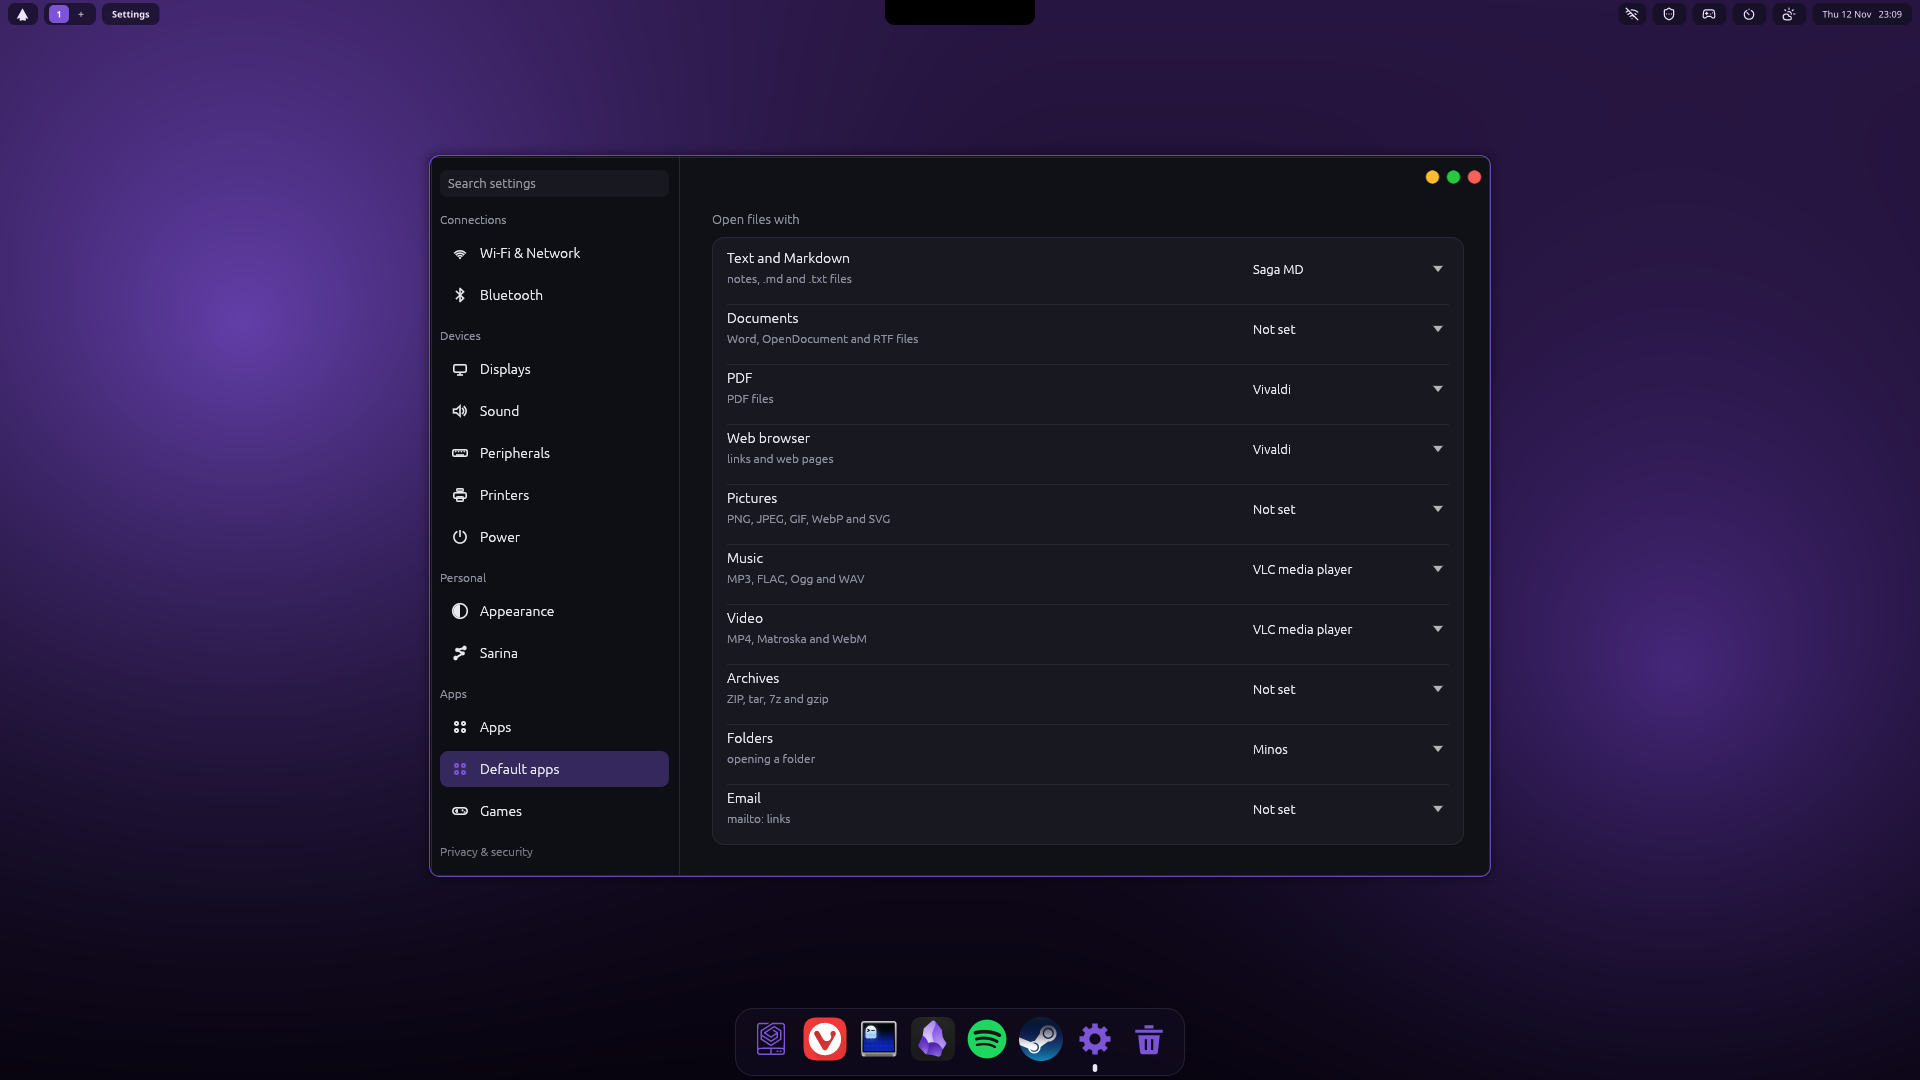
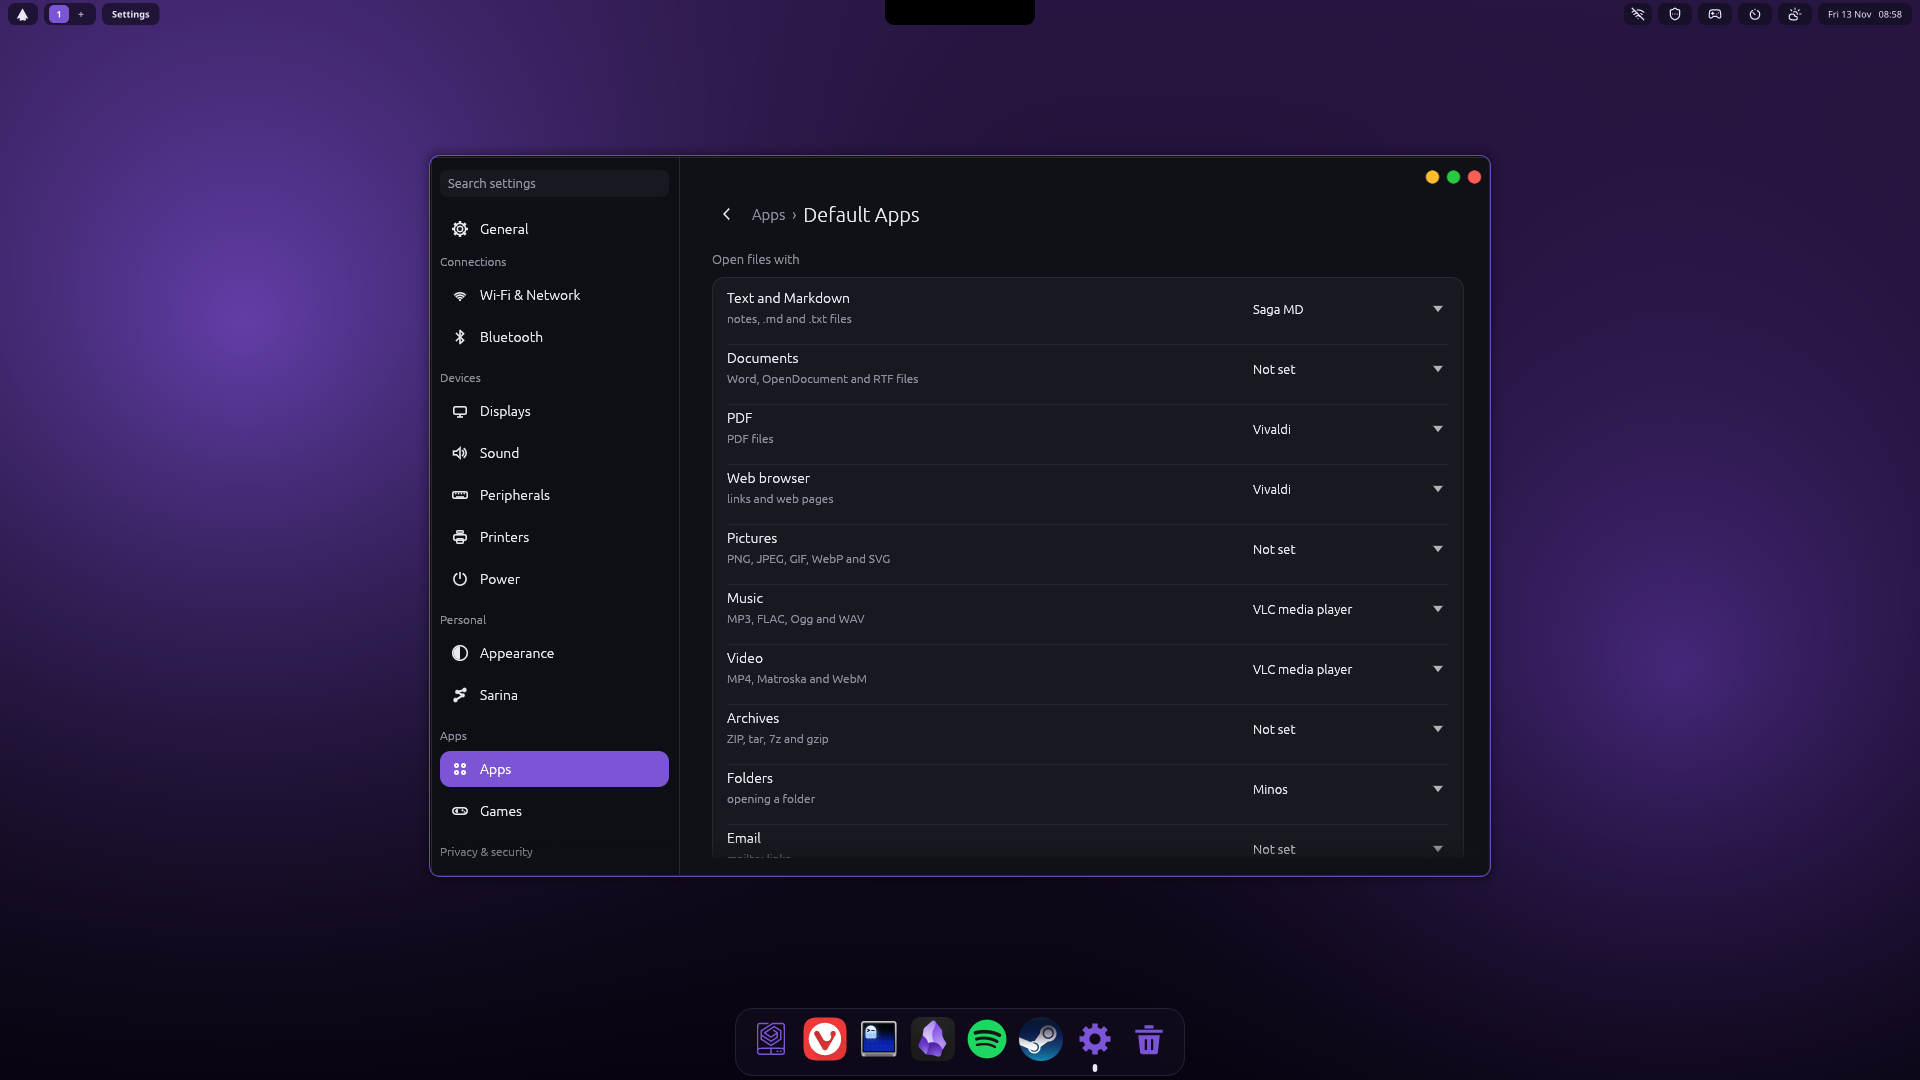
Settings > Apps as on a tablet: Default Apps on top, then every app A to Z with a search
- A card at the top: Default Apps ("Manage default apps"), Optional software and Minos. Default Apps
  left the sidebar and is a page inside Apps (`yggdrasil-settings default` still opens it, as
  Apps › Default Apps, Back returns to Apps); Optional software and Minos were tabs and are now
  sub-pages in the header's path.
- Below it a full-width search field and the installed apps (the same data as before), A to Z by
  default with a card per letter under its letter ("#" for digits and the like). Usage and Size still
  sort it, as one card. Each row keeps its restart, close and remove buttons and opens the app's page.

Test: the letter sections (order, digits, the search narrowing first).

diff --git a/packages/settings/src/apps_ui.rs b/packages/settings/src/apps_ui.rs
@@ -19,7 +19,7 @@ pub enum Confirm {
     ClearData(String),
 }
 
-pub const SORTS: [&str; 3] = ["Usage", "Size", "A to Z"];
+pub const SORTS: [&str; 3] = ["A to Z", "Usage", "Size"];
 
 fn human(bytes: u64) -> String {
     let b = bytes as f64;
@@ -81,14 +81,14 @@ fn sorted<'a>(apps: &'a [AppInfo], sort: usize, sizes: &HashMap<String, u64>, fi
         })
         .collect();
     match sort {
-        0 => v.sort_by(|a, b| {
+        1 => v.sort_by(|a, b| {
             b.seconds
                 .cmp(&a.seconds)
                 .then(b.launches.cmp(&a.launches))
                 .then(b.last_used.cmp(&a.last_used))
                 .then(a.name.to_lowercase().cmp(&b.name.to_lowercase()))
         }),
-        1 => v.sort_by(|a, b| {
+        2 => v.sort_by(|a, b| {
             sizes.get(&b.id).unwrap_or(&0).cmp(sizes.get(&a.id).unwrap_or(&0)).then(a.name.to_lowercase().cmp(&b.name.to_lowercase()))
         }),
         _ => v.sort_by_key(|a| a.name.to_lowercase()),
@@ -96,11 +96,45 @@ fn sorted<'a>(apps: &'a [AppInfo], sort: usize, sizes: &HashMap<String, u64>, fi
     v
 }
 
+/// The letter an app is listed under in A to Z: its first letter, "#" for a digit or anything else.
+pub fn letter(name: &str) -> String {
+    match name.chars().next() {
+        Some(c) if c.is_alphabetic() => c.to_uppercase().collect(),
+        _ => "#".into(),
+    }
+}
+
+/// The list cut into its letters' sections, in order (A to Z only).
+pub fn by_letter<'a>(list: &[&'a AppInfo]) -> Vec<(String, Vec<&'a AppInfo>)> {
+    let mut out: Vec<(String, Vec<&AppInfo>)> = Vec::new();
+    for a in list {
+        let l = letter(&a.name);
+        match out.last_mut() {
+            Some((k, v)) if *k == l => v.push(a),
+            _ => out.push((l, vec![a])),
+        }
+    }
+    out
+}
+
 impl App {
+    /// Apps, as on a tablet: Default Apps (and the system's optional software and Minos) on a card at the top, then every
+    /// installed app, A to Z under its letter, with a search.
     pub(crate) fn page_apps(&mut self, ui: &mut egui::Ui, pal: &Palette, ctx: &egui::Context) {
-        if self.app_sel.is_none() {
-            if let Some(i) = ui::segmented(ui, pal, &["Installed", "Optional software", "Minos"], self.app_tab) {
-                self.app_tab = i;
+        if self.app_sel.is_none() && self.app_tab == 0 {
+            let mut open_defaults = false;
+            ui::group(ui, pal, None, |ui| {
+                open_defaults = ui::nav_row(ui, pal, true, "Default Apps", Some("Manage default apps"), |_| {});
+                if ui::nav_row(ui, pal, false, "Optional software", Some("Parts of the system you can add or take away"), |_| {}) {
+                    self.app_tab = 1;
+                }
+                if ui::nav_row(ui, pal, false, "Minos", Some("The file manager's windows and tabs"), |_| {}) {
+                    self.app_tab = 2;
+                }
+            });
+            if open_defaults {
+                self.open_page(crate::Page::DefaultApps, ctx);
+                return;
             }
         }
         match (self.app_tab, self.app_sel.clone()) {
@@ -114,25 +148,37 @@ impl App {
 
     fn app_list(&mut self, ui: &mut egui::Ui, pal: &Palette, ctx: &egui::Context) {
         let Some(apps) = self.data.installed.clone() else { return crate::loading(ui) };
-        ui.add_space(8.0);
+        ui.add_space(14.0);
+        ui::field(ui, pal, &mut self.app_filter, "Search apps", ui.available_width() - 22.0, false);
+        ui.add_space(6.0);
         ui.horizontal(|ui| {
             ui.label(RichText::new("Sort by").color(pal.dim));
             if let Some(i) = ui::segmented(ui, pal, &SORTS, self.app_sort) {
                 self.app_sort = i;
             }
             ui.add_space(8.0);
-            ui.add(egui::TextEdit::singleline(&mut self.app_filter).hint_text("Find an app").desired_width(180.0));
-            ui.add_space(8.0);
             ui.checkbox(&mut self.app_system, "Show system tools");
         });
         let list = sorted(&apps, self.app_sort, &self.app_sizes, &self.app_filter, self.app_system);
+        // A to Z: a card per letter, the letter over it; by usage or size one card
+        let sections = if self.app_sort == 0 { by_letter(&list) } else { vec![(String::new(), list)] };
         let mut action: Option<(String, &'static str)> = None;
-        ui::group(ui, pal, None, |ui| {
-            if list.is_empty() {
+        if sections.iter().all(|(_, v)| v.is_empty()) {
+            ui::group(ui, pal, None, |ui| {
                 ui.add_space(12.0);
                 ui.label(RichText::new("No apps match.").color(pal.dim));
                 ui.add_space(12.0);
-            }
+            });
+        }
+        for (head, list) in sections.iter().filter(|(_, v)| !v.is_empty()) {
+            ui::group(ui, pal, (!head.is_empty()).then_some(head.as_str()), |ui| self.app_rows(ui, pal, list, &mut action));
+        }
+        self.app_list_action(ctx, &apps, action);
+    }
+
+    /// The rows of one card of the list: icon, name and what is known, and restart, close and remove on the right.
+    fn app_rows(&self, ui: &mut egui::Ui, pal: &Palette, list: &[&AppInfo], action: &mut Option<(String, &'static str)>) {
+        {
             for (i, a) in list.iter().enumerate() {
                 if i > 0 {
                     let r = ui.available_rect_before_wrap();
@@ -184,19 +230,22 @@ impl App {
                         .layout(egui::Layout::right_to_left(egui::Align::Center)),
                 );
                 if icon_button(&mut buttons, pal, Icon::Trash, "Remove", true, true).clicked() {
-                    action = Some((a.id.clone(), "remove"));
+                    *action = Some((a.id.clone(), "remove"));
                 }
                 if icon_button(&mut buttons, pal, Icon::Close, "Close", !a.running.is_empty(), false).clicked() {
-                    action = Some((a.id.clone(), "close"));
+                    *action = Some((a.id.clone(), "close"));
                 }
                 if icon_button(&mut buttons, pal, Icon::Restart, "Restart", !a.running.is_empty(), false).clicked() {
-                    action = Some((a.id.clone(), "restart"));
+                    *action = Some((a.id.clone(), "restart"));
                 }
                 if resp.clicked() && action.is_none() {
-                    action = Some((a.id.clone(), "open"));
+                    *action = Some((a.id.clone(), "open"));
                 }
             }
-        });
+        }
+    }
+
+    fn app_list_action(&mut self, ctx: &egui::Context, apps: &[AppInfo], action: Option<(String, &'static str)>) {
         if let Some((id, what)) = action {
             let app = apps.iter().find(|a| a.id == id).cloned();
             match (what, app) {
@@ -648,4 +697,26 @@ fn stop_app(a: &AppInfo) -> Result<(), String> {
     args.extend(a.running.iter().cloned());
     let refs: Vec<&str> = args.iter().map(String::as_str).collect();
     crate::sys::act("systemctl", &refs)
+}
+
+#[cfg(test)]
+mod tests {
+    use super::*;
+
+    fn app(name: &str) -> AppInfo {
+        AppInfo { id: name.to_lowercase(), name: name.into(), ..Default::default() }
+    }
+
+    #[test]
+    fn a_to_z_has_a_section_per_letter() {
+        let apps = [app("calculator"), app("Agora"), app("7-Zip"), app("Ägypten"), app("Browser"), app("Builder")];
+        let list = sorted(&apps, 0, &HashMap::new(), "", true);
+        let s = by_letter(&list);
+        let heads: Vec<&str> = s.iter().map(|(h, _)| h.as_str()).collect();
+        assert_eq!(heads, ["#", "A", "B", "C", "Ä"]);
+        assert_eq!(s[2].1.iter().map(|a| a.name.as_str()).collect::<Vec<_>>(), ["Browser", "Builder"]);
+        // the search narrows the list first
+        let list = sorted(&apps, 0, &HashMap::new(), "bu", true);
+        assert_eq!(by_letter(&list).len(), 1);
+    }
 }

diff --git a/packages/settings/src/nav.rs b/packages/settings/src/nav.rs
@@ -96,6 +96,11 @@ impl App {
                 l.extend(t);
             }
             Page::Apps => {
+                match self.app_tab {
+                    1 => l.push("Optional software".into()),
+                    2 => l.push("Minos".into()),
+                    _ => {}
+                }
                 if let Some(id) = &self.app_sel {
                     let name = self.data.installed.as_ref().and_then(|a| a.iter().find(|a| &a.id == id)).map(|a| a.name.clone());
                     l.push(name.unwrap_or_else(|| id.clone()));
@@ -164,8 +169,12 @@ impl App {
                 self.distress.close();
             }
             Page::Apps => {
-                self.app_sel = None;
-                self.app_confirm = None;
+                if self.app_sel.is_some() {
+                    self.app_sel = None;
+                    self.app_confirm = None;
+                } else {
+                    self.app_tab = 0;
+                }
             }
             Page::Peripherals => match (self.peri.sub, self.key_sub) {
                 (peripherals::Sub::Keyboard, KeySub::SpellDownload) => self.key_sub = KeySub::Spelling,
@@ -207,6 +216,7 @@ impl App {
             Page::Apps => {
                 self.app_sel = None;
                 self.app_confirm = None;
+                self.app_tab = 0;
             }
             Page::Peripherals => {
                 self.peri.sub = peripherals::Sub::Main;

diff --git a/packages/settings/src/main.rs b/packages/settings/src/main.rs
@@ -153,7 +153,6 @@ const PAGES: [(Page, &str, Icon, &str, &str); 22] = [
     ),
     (Page::Assistant, "Assistant", Icon::Sound, "Personal", "voice"),
     (Page::Apps, "Apps", Icon::Apps, "Apps", "installed optional software uninstall minos"),
-    (Page::DefaultApps, "Default apps", Icon::Apps, "Apps", "browser mail music video open with"),
     (
         Page::Games,
         "Games",
@@ -172,6 +171,7 @@ const PAGES: [(Page, &str, Icon, &str, &str); 22] = [
     (Page::Restore, "Restore points", Icon::Restart, "Privacy & security", "snapshot backup rollback undo"),
     (Page::Users, "Users", Icon::User, "System", "account people"),
     (Page::Developer, "Developer Mode", Icon::Keyboard, "System", "developer options"),
+    (Page::DefaultApps, "Default Apps", Icon::Apps, "Apps", "browser mail music video open with"),
     (Page::About, "About", Icon::Info, "General", "version system information hardware"),
     (Page::DateTime, "Date & Time", Icon::Clock, "General", "clock timezone"),
     (Page::Storage, "Storage", Icon::Gear, "General", "disk space free used"),
@@ -182,6 +182,7 @@ const PAGES: [(Page, &str, Icon, &str, &str); 22] = [
 fn parent(page: Page) -> Option<Page> {
     match page {
         Page::About | Page::DateTime | Page::Storage | Page::Language => Some(Page::General),
+        Page::DefaultApps => Some(Page::Apps),
         _ => None,
     }
 }

diff --git a/docs/APPS_SETTINGS.md b/docs/APPS_SETTINGS.md
@@ -25,14 +25,16 @@ rows, a row that opens a page ending in ›, and a small grey note under a card 
 
 ## The pages
 
-- **Installed** (tab): every visible desktop entry, sortable by Usage (how often it was opened from here), Size (its folders
-  under ~/.config, ~/.cache, ~/.local/share, ~/.var/app) or A to Z. System tools (settings panels, Avahi, ...) are hidden
+- **The list** (2026-11-13, as on a tablet): a card at the top with Default Apps ("Manage default apps", no longer in the
+  sidebar; `yggdrasil-settings default` still opens it, inside Apps), Optional software and Minos (they were tabs), then a
+  search field and every visible desktop entry A to Z, a card per letter. It can also be sorted by Usage (how often it was
+  opened from here) or Size (its folders under ~/.config, ~/.cache, ~/.local/share, ~/.var/app). System tools (settings panels, Avahi, ...) are hidden
   unless "Show system tools" is ticked. Each row has icon-only buttons: restart, close (both only while it runs), remove
   (asks first; shows the package; the desktop's own packages are refused).
 - **An app's page** (click a row, or `yggdrasil-settings apps:ID`): Network (switch; click the name too), open at login,
   status, storage with Clear cache and Clear data (the latter lists the folders and asks for the password), the privacy
   sandbox, Remove.
-- **Optional software** and **Minos** are the other two tabs.
+- **Optional software** and **Minos** are rows on the card at the top, each its own page.
 - **Developer options** (About: click the logo five times while holding the ` key): adds "Any connection / Ethernet only /
   Wi-Fi only" next to an app's network switch, and the selected power mode's CPU and graphics-card limits under Power. Stored as
   `developer = yes` in ~/.config/yggdrasil/panel.conf.
@@ -150,8 +152,8 @@ About only when switched on, have no picture.
 | **Appearance**: light or dark, the accent, wallpapers, icons. | ![Settings > Appearance](../assets/screenshots/settings-appearance.png) |
 | **Appearance > Lock screen**: the designs with their previews. | ![Settings > Appearance > Lock screen](../assets/screenshots/settings-lock-screen-designs.png) |
 | **Sarina**: the operating system's assistant, from its integration. | ![Settings > Sarina](../assets/screenshots/settings-assistant.png) |
-| **Apps**: installed apps by use. | ![Settings > Apps](../assets/screenshots/settings-apps-list.png) |
-| **Default apps**: what opens each kind of file. | ![Settings > Default apps](../assets/screenshots/settings-default-apps.png) |
+| **Apps**: Default Apps, Optional software and Minos on a card at the top, then every installed app A to Z under its letter, with a search. | ![Settings > Apps](../assets/screenshots/settings-apps-list.png) |
+| **Apps > Default Apps**: what opens each kind of file. | ![Settings > Apps > Default Apps](../assets/screenshots/settings-default-apps.png) |
 | **Games**: graphics cards, game fixes, frame generation per game. | ![Settings > Games](../assets/screenshots/settings-games.png) |
 | **Security**: the security monitor, the password logs, the distress password, Limbo. | ![Settings > Security](../assets/screenshots/settings-security.png) |
 | **Security > Distress password**: it opens only after your account password. | ![Settings > Security > Distress password](../assets/screenshots/settings-distress-open.png) |
